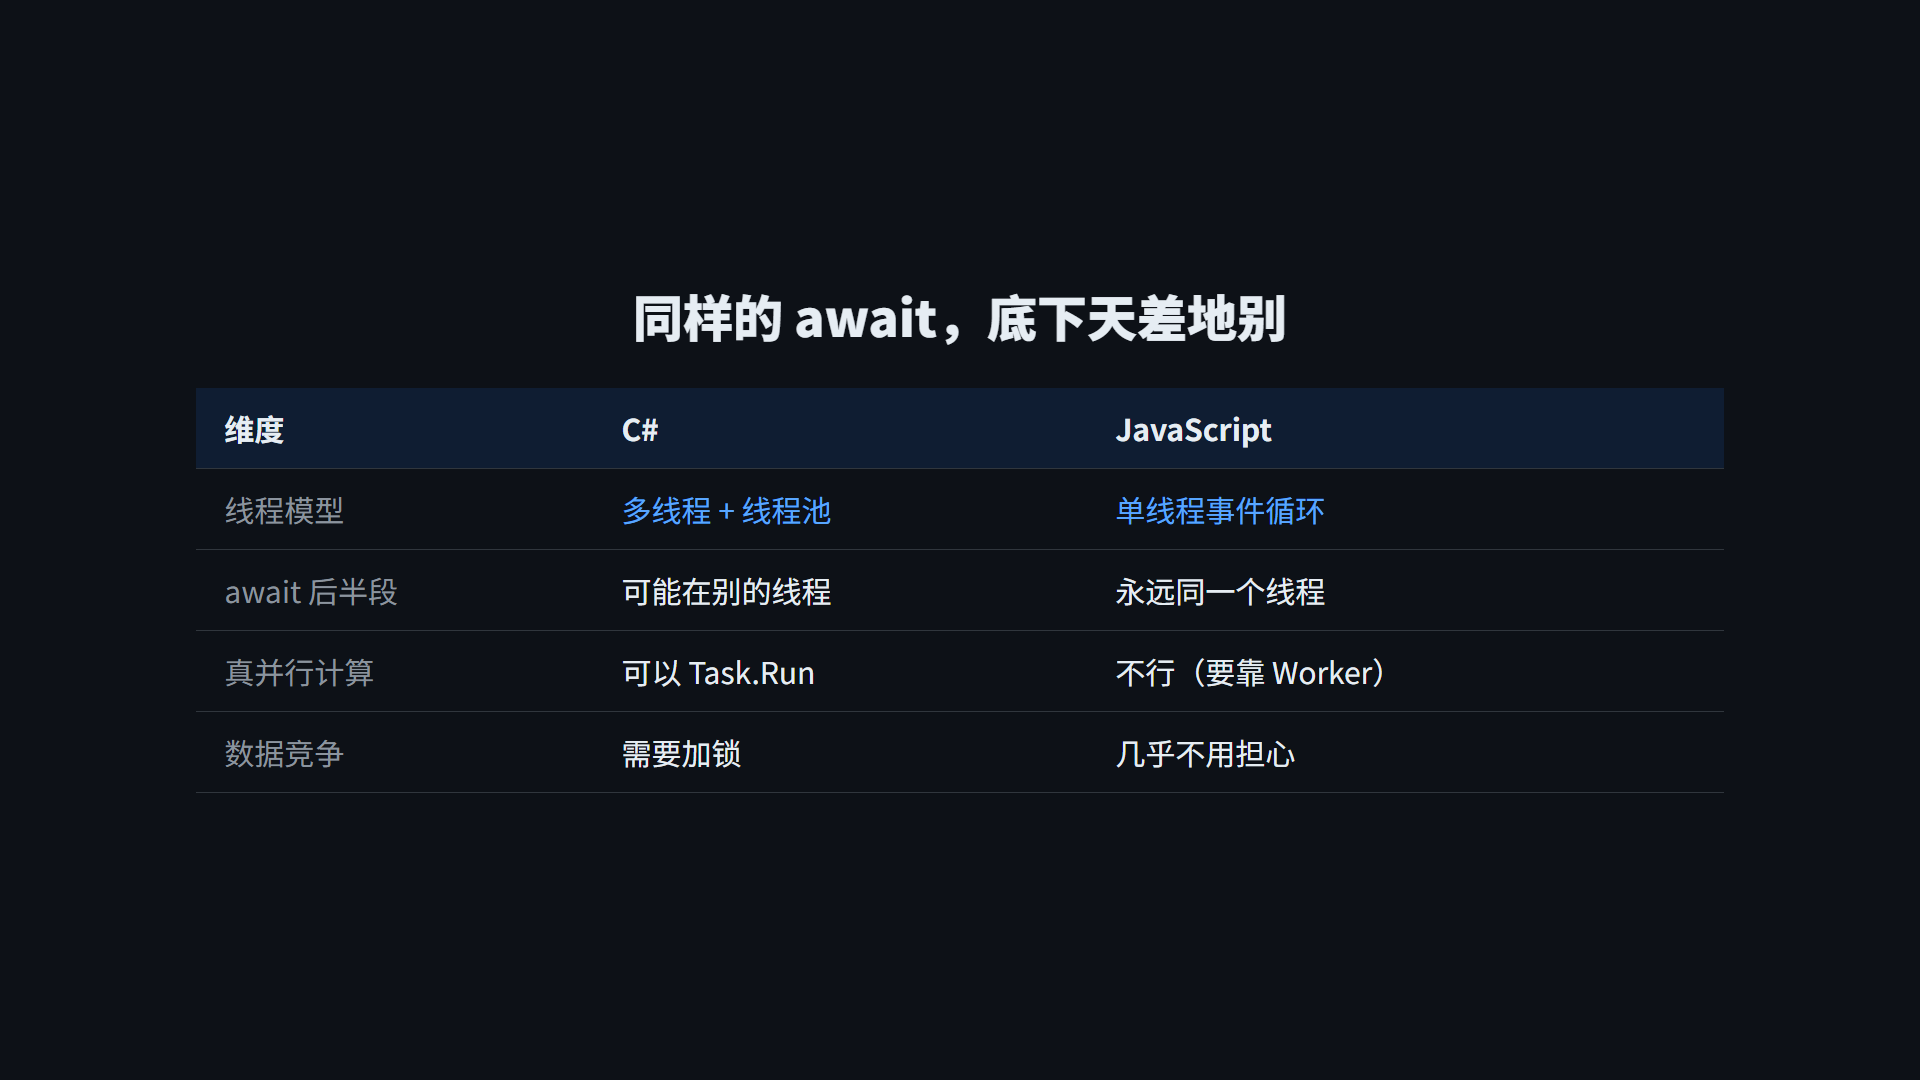
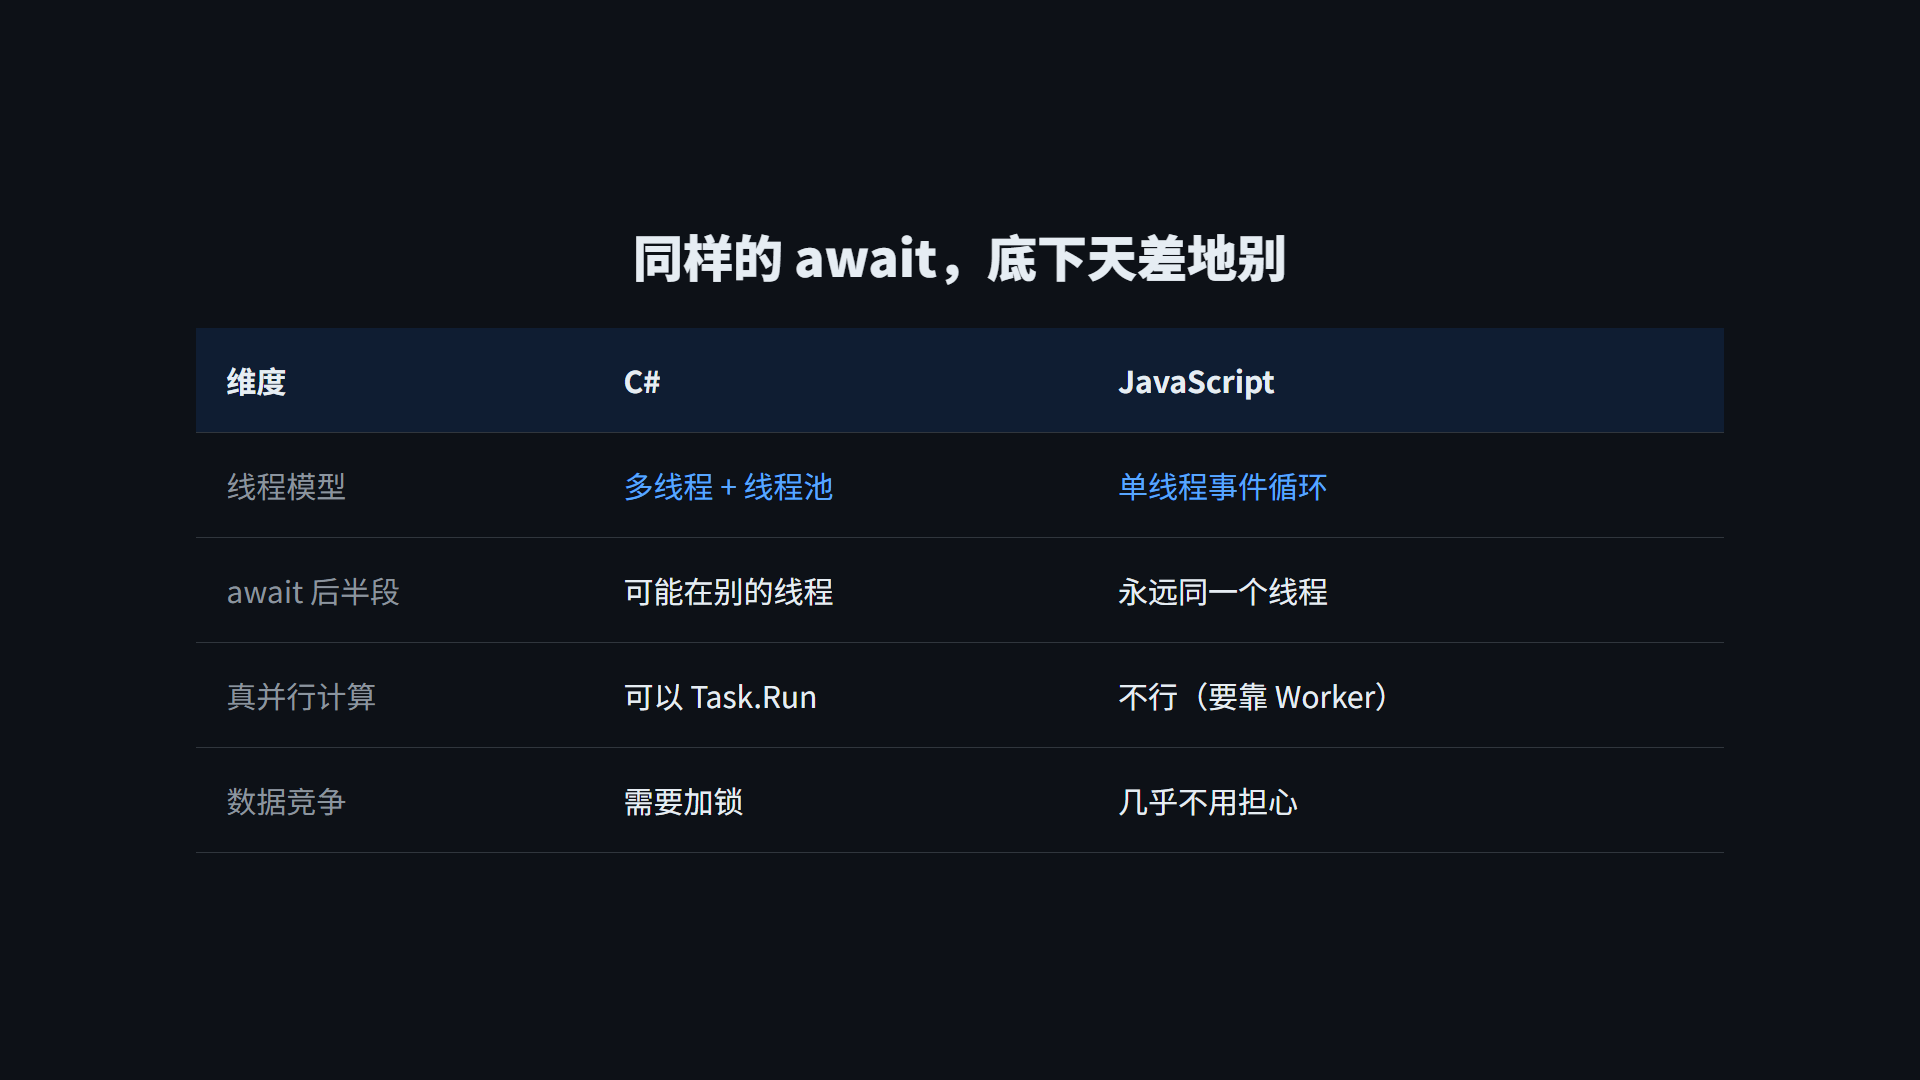
优化视觉元素：短内容块填满画布
参照 AUTHORING.md §3.1（内容占画布 ≥70%），加大 theme.css 中
表格/小结/卡片/流程图/取餐小票/死锁环图/注释框的垂直节奏，
代码窗保持不变（本就填满）。重渲受影响的 12 张 PNG。

diff --git a/sync/html/theme.css b/sync/html/theme.css
@@ -31,14 +31,14 @@ body{
 
 /* comparison table */
 table{border-collapse:collapse;width:100%}
-th,td{text-align:left;padding:18px 28px;border-bottom:1px solid var(--border)}
+th,td{text-align:left;padding:30px 30px;border-bottom:1px solid var(--border)}
 thead th{background:#1f6feb22;color:var(--fg);font-weight:700}
 td.dim{color:var(--muted)}
 
 /* bullet summary */
 .bullets{list-style:none;width:82%}
-.bullets li{display:flex;align-items:flex-start;gap:20px;margin:26px 0;color:var(--fg)}
-.bullets li::before{content:"";flex:0 0 auto;width:18px;height:18px;margin-top:.4em;
+.bullets li{display:flex;align-items:flex-start;gap:24px;margin:42px 0;color:var(--fg)}
+.bullets li::before{content:"";flex:0 0 auto;width:22px;height:22px;margin-top:.4em;
   border-radius:50%;background:var(--accent)}
 
 .rule{height:4px;background:var(--accent);border-radius:2px;margin:16px auto 0}
@@ -49,38 +49,39 @@ td.dim{color:var(--muted)}
 /* cards */
 .cards{display:flex;gap:48px;justify-content:center;align-items:stretch;width:100%}
 .card{background:var(--code-bg);border:1px solid var(--border);border-radius:16px;
-  padding:32px 36px;flex:1}
-.card .ico{font-size:60px;display:block;margin-bottom:14px}
-.card h3{font-size:36px;margin-bottom:8px;font-weight:700}
-.card .item{font-size:28px;color:var(--muted);margin:14px 0;line-height:1.4}
+  padding:44px 44px;flex:1;min-height:440px;
+  display:flex;flex-direction:column;justify-content:center}
+.card .ico{font-size:72px;display:block;margin-bottom:20px}
+.card h3{font-size:40px;margin-bottom:12px;font-weight:700}
+.card .item{font-size:31px;color:var(--muted);margin:18px 0;line-height:1.4}
 .card .item.fg{color:var(--fg)}
 
 /* annotation note box (accent border) */
-.note{border:2px solid var(--accent);border-radius:14px;padding:26px 30px;
-  color:var(--muted);font-size:28px;line-height:1.55;max-width:540px}
+.note{border:2px solid var(--accent);border-radius:14px;padding:30px 34px;
+  color:var(--muted);font-size:31px;line-height:1.55;max-width:560px}
 
 /* receipt mockup */
-.receipt{border:3px dashed var(--accent);border-radius:14px;padding:34px 40px;
+.receipt{border:3px dashed var(--accent);border-radius:14px;padding:52px 56px;
   text-align:center;background:var(--code-bg)}
-.receipt .ico{font-size:84px;display:block;margin-bottom:14px}
-.receipt .t{font-size:32px;color:var(--fg)}
+.receipt .ico{font-size:108px;display:block;margin-bottom:24px}
+.receipt .t{font-size:36px;color:var(--fg)}
 
 /* flowchart */
 .flow{display:flex;flex-direction:column;align-items:center}
-.fbox{border-radius:14px;padding:22px 36px;font-size:30px;text-align:center;
-  border:1px solid var(--border);background:var(--code-bg);max-width:760px}
+.fbox{border-radius:14px;padding:30px 46px;font-size:34px;text-align:center;
+  border:1px solid var(--border);background:var(--code-bg);max-width:880px}
 .fbox.q{background:#1f6feb22}
 .fbox.good{border-color:var(--good);color:var(--fg)}
 .fbox.accent{border-color:var(--accent);color:var(--fg)}
-.farrow{color:var(--accent);font-size:34px;margin:14px 0;font-weight:700}
-.frow{display:flex;gap:120px;justify-content:center;align-items:flex-start}
+.farrow{color:var(--accent);font-size:44px;margin:26px 0;font-weight:700}
+.frow{display:flex;gap:200px;justify-content:center;align-items:flex-start}
 .fcol{display:flex;flex-direction:column;align-items:center}
-.flabel{color:var(--muted);font-size:26px;margin:10px 0}
+.flabel{color:var(--muted);font-size:32px;margin:18px 0}
 
 /* circular-wait diagram */
-.cyc{display:flex;flex-direction:column;align-items:center;gap:10px}
-.cyc .cbox{border:2px solid var(--kw);border-radius:12px;padding:18px 30px;
-  font-size:28px;color:var(--fg)}
-.cyc .carr{color:var(--kw);font-size:34px}
-.cyc .lock{font-size:50px;margin:8px 0}
-.cyc .ctxt{color:var(--kw);font-size:28px}
+.cyc{display:flex;flex-direction:column;align-items:center;gap:24px}
+.cyc .cbox{border:2px solid var(--kw);border-radius:12px;padding:30px 44px;
+  font-size:34px;color:var(--fg)}
+.cyc .carr{color:var(--kw);font-size:48px}
+.cyc .lock{font-size:68px;margin:14px 0}
+.cyc .ctxt{color:var(--kw);font-size:34px}
